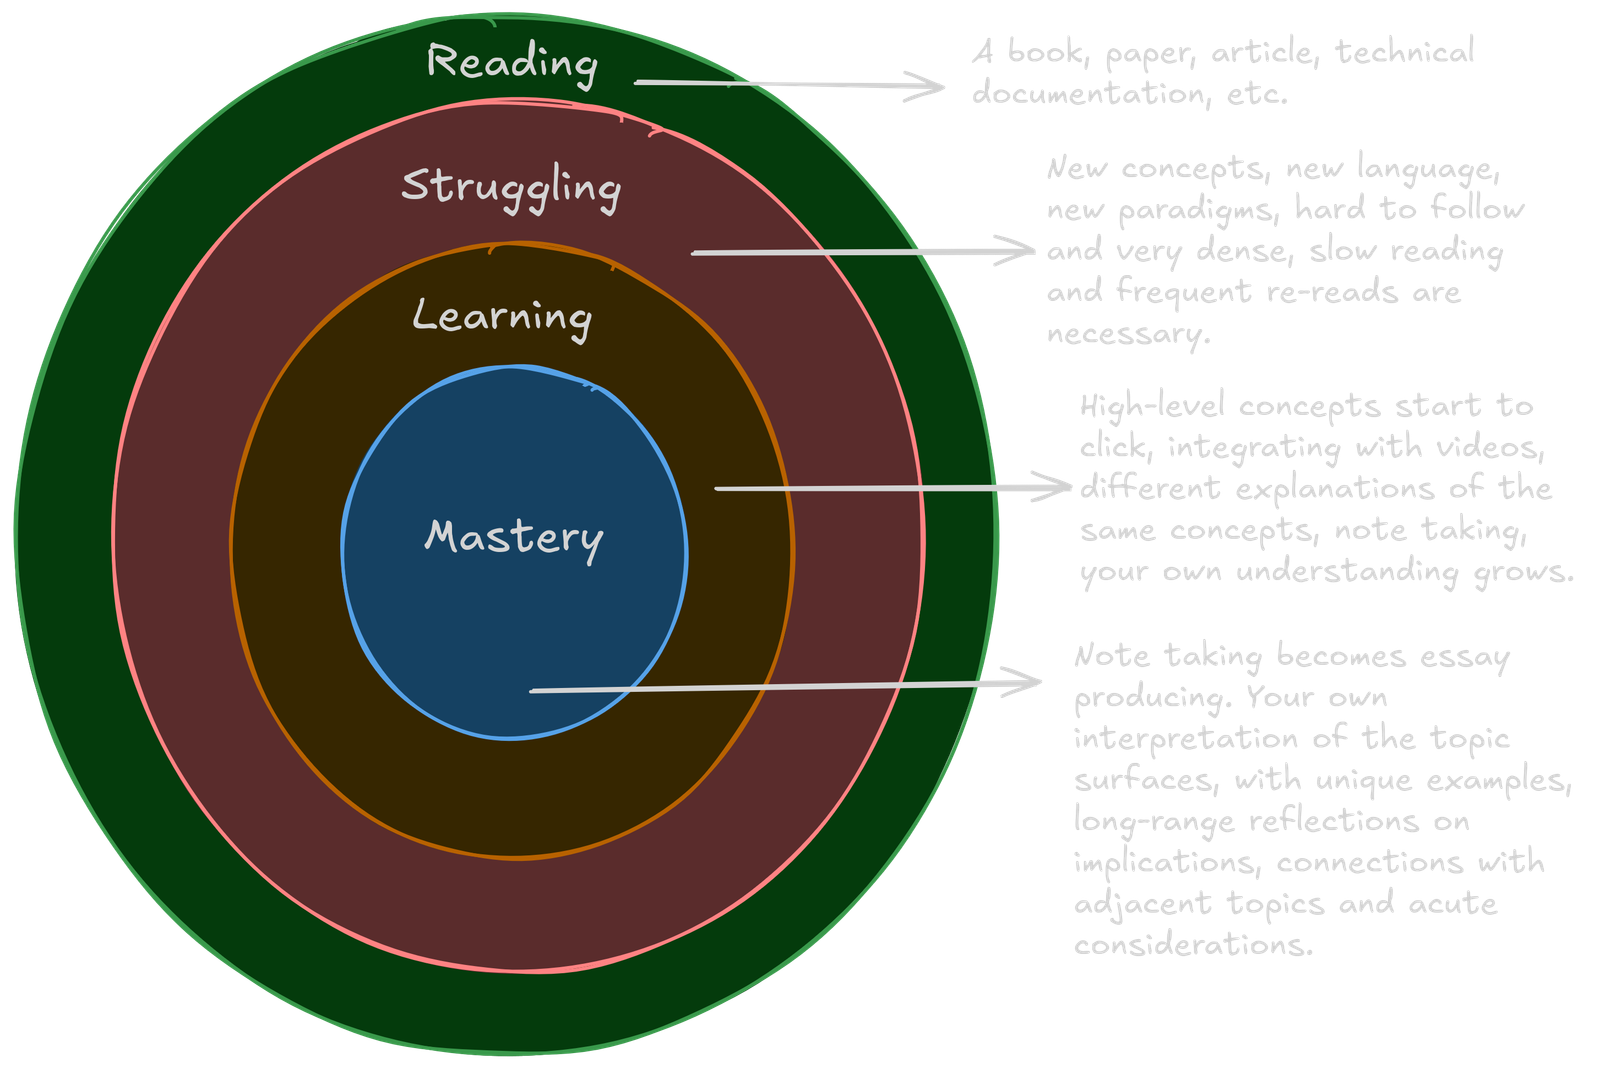
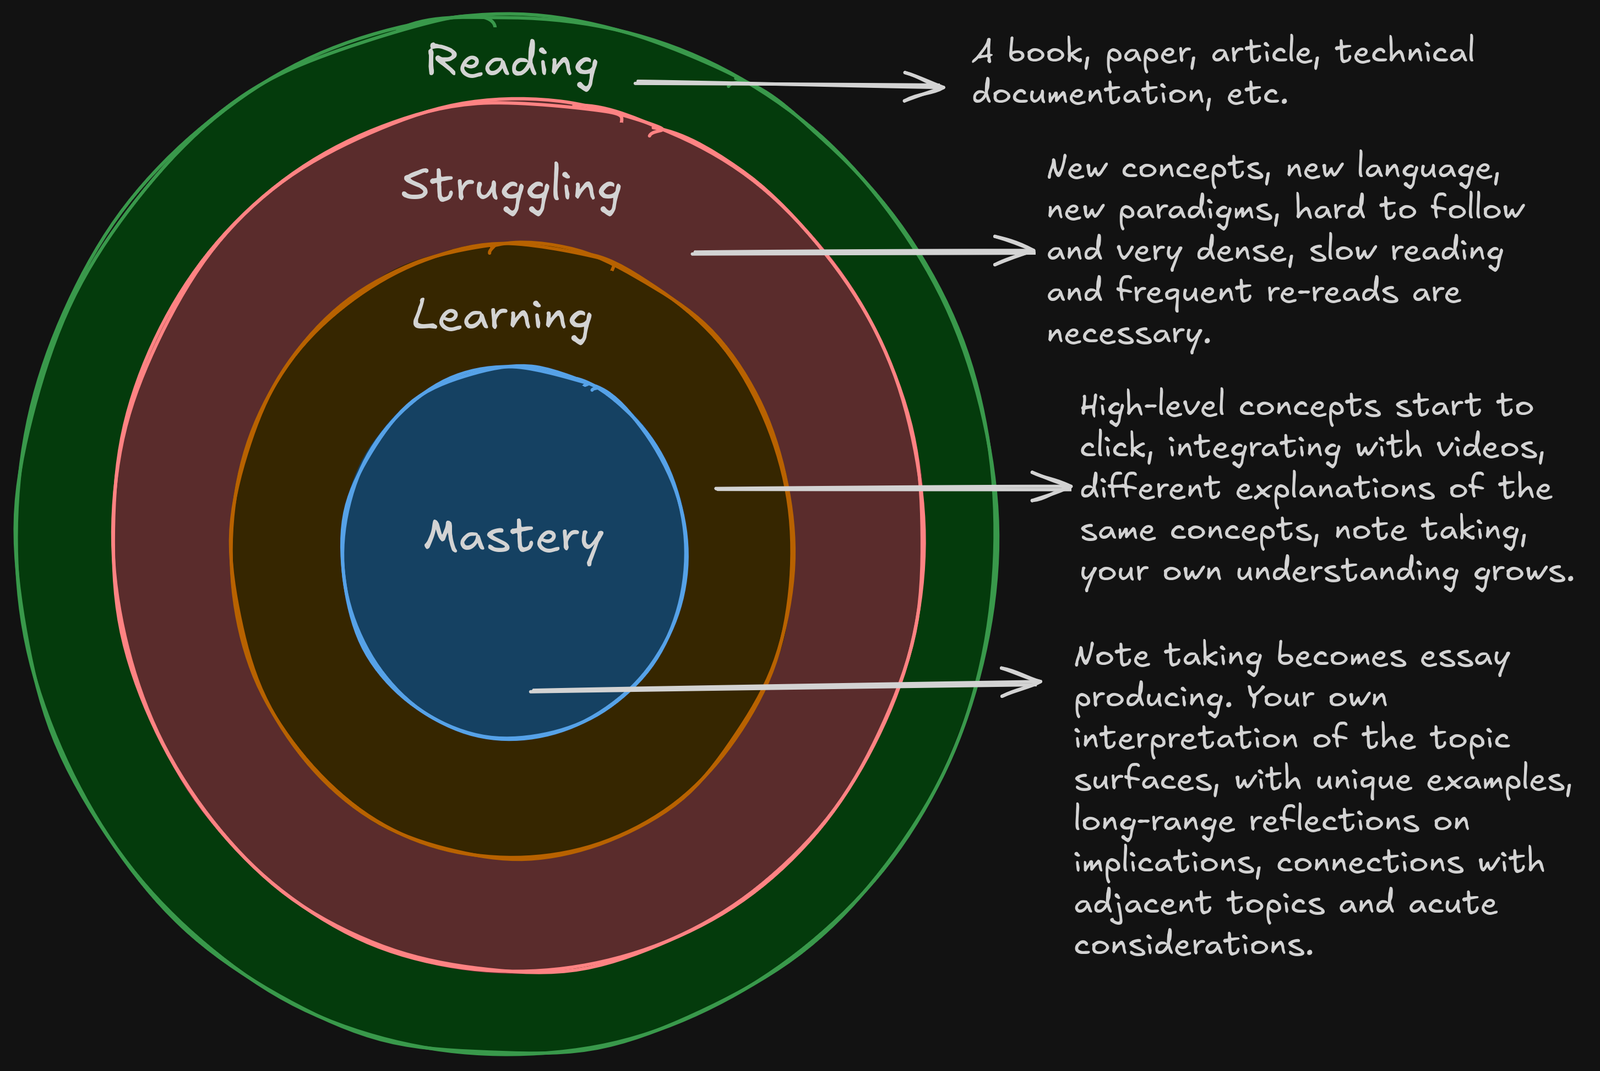
Make the study diagram readable across themes

diff --git a/README.md b/README.md
@@ -139,8 +139,8 @@ this machine. Back that directory up separately; Git and deployment do not store
 it. This migration does not remove old image blobs from Git history.
 
 For transparent diagrams, check contrast in every theme before publishing.
-The current study diagram has pale labels designed for a dark background; its
-existing Dawn contrast needs an authoring change, independent of compression.
+The study diagram includes an opaque dark background so its pale labels remain
+readable in Dawn as well as the dark themes.
 
 Image processing uses [Astro's native image support](https://docs.astro.build/en/guides/images/)
 and [Sharp's output encoders](https://sharp.pixelplumbing.com/api-output/).
